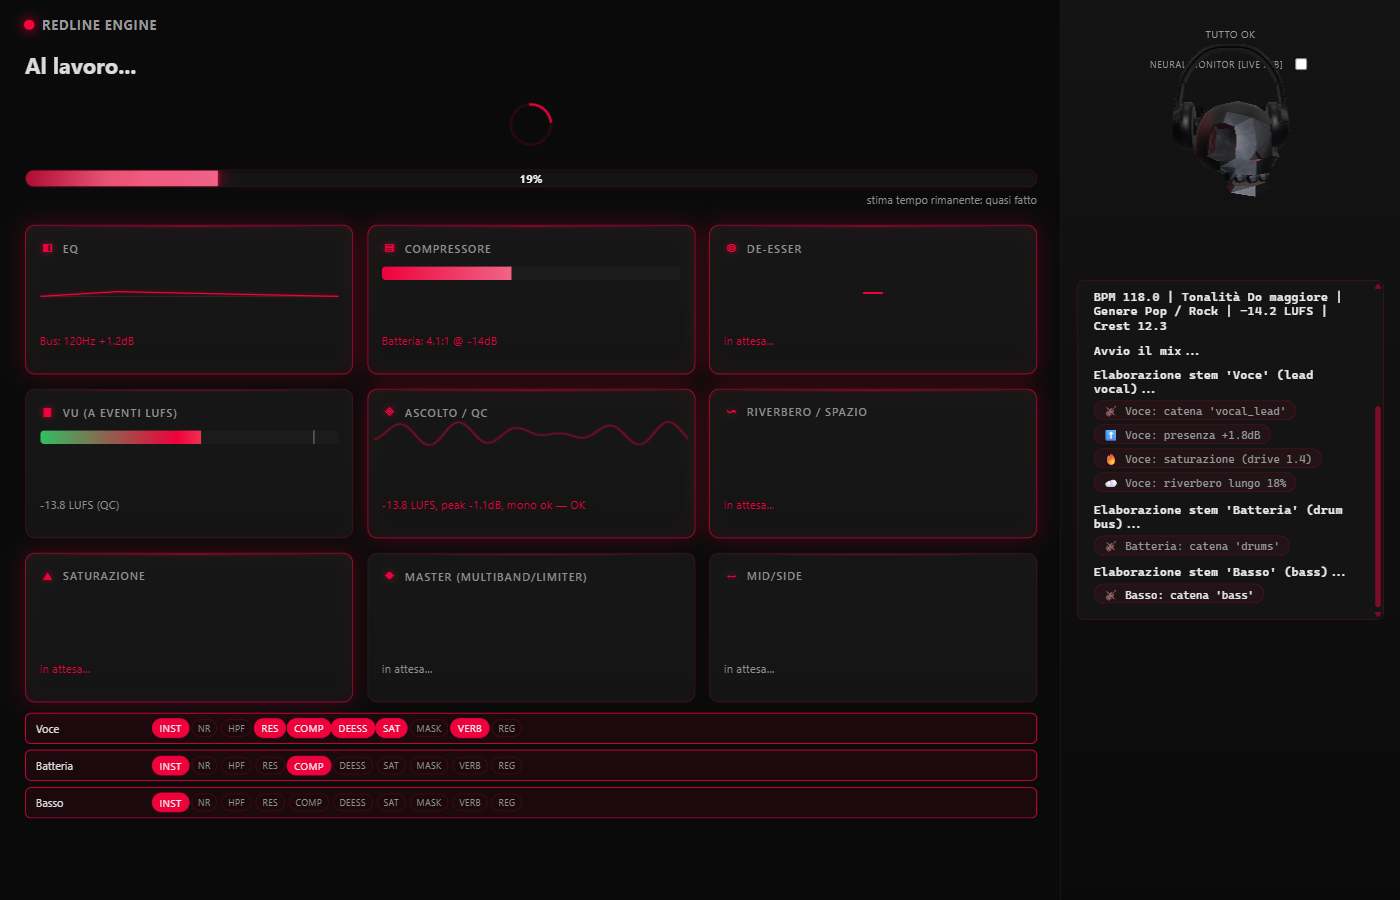
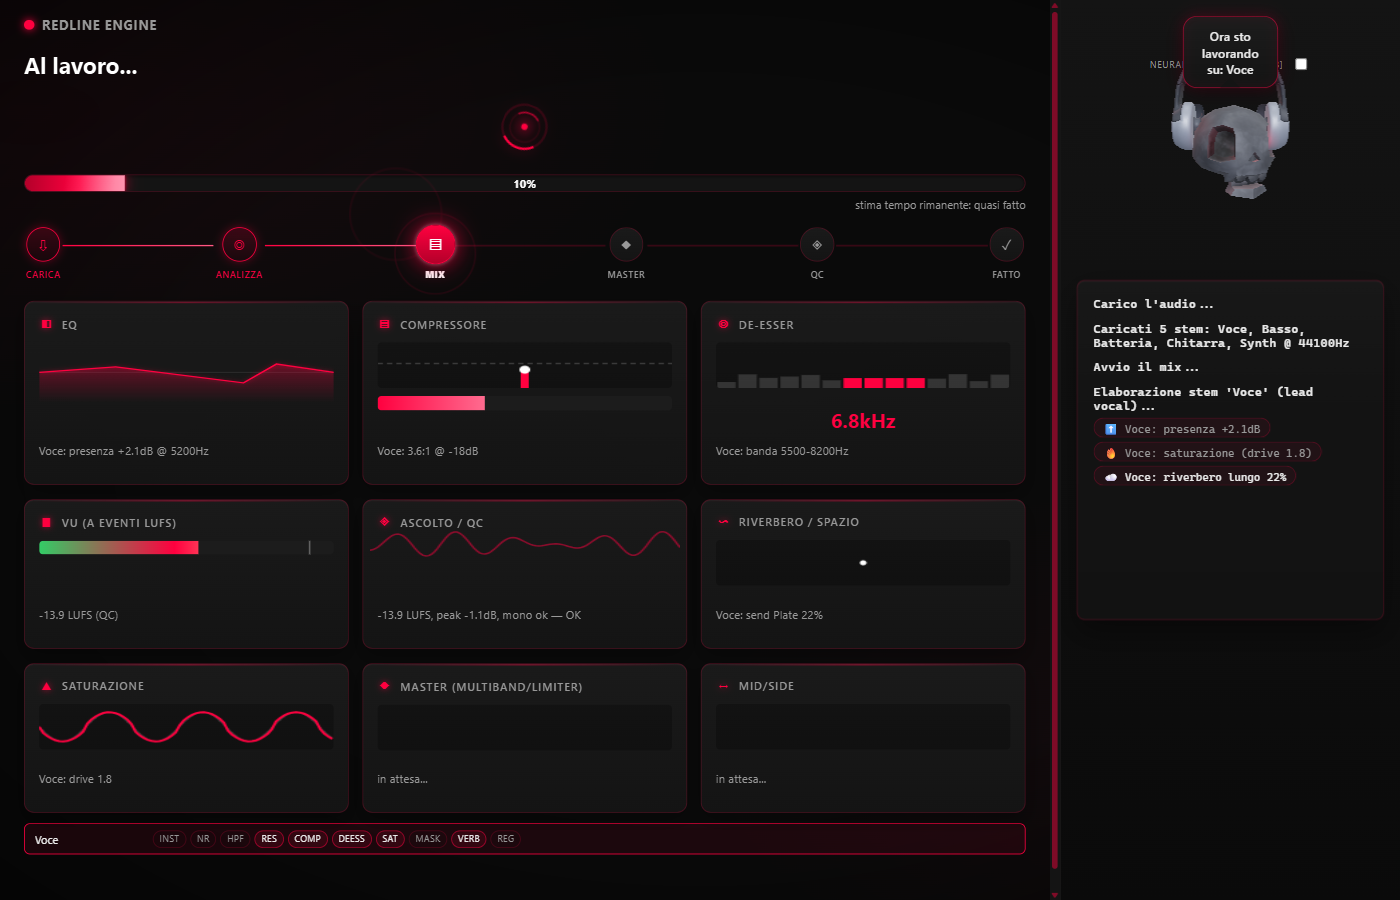
Atmosfera ambientale, EQ con massa, spinner a doppio anello, chip elastiche
- Sfondo vivo: due bagliori rossi ultra-tenui che derivano lentamente
  dietro a tutto (solo transform, GPU-cheap) + vignettatura fissa; le
  zone scure respirano invece di essere nero piatto.
- Curva EQ: riempimento a gradiente sotto la linea (massa da analyzer
  invece di un tratto solitario), stesso easing dello stroke.
- Spinner: doppio anello controrotante + nucleo pulsante, con glow.
- Brand dot: respiro luminoso + anello sonar periodico.
- Chip del log: atterrano con il pop elastico condiviso (--ease-pop)
  invece del fade delle righe testo.

Verificato via Playwright: zero errori console, gradiente EQ, spinner e
glow ambientale tutti confermati visivamente. Screenshot 02 del README
rinfrescato, sezioni Premium Polish Pass aggiornate (EN+IT).

diff --git a/RedLineEngine/app/web/style.css b/RedLineEngine/app/web/style.css
@@ -162,6 +162,41 @@ html, body {
   height: 100vh;
 }
 
+/* Ambient living background: two huge, ultra-dim red glows drifting very
+   slowly behind everything (transform-only animation, GPU-cheap), plus a
+   fixed vignette. The panels all have opaque backgrounds, so this only
+   breathes through in the dark empty areas -- atmosphere, not noise. */
+body::before {
+  content: "";
+  position: fixed;
+  inset: -30%;
+  z-index: 0;
+  pointer-events: none;
+  background:
+    radial-gradient(ellipse 42% 30% at 22% 28%, rgba(255, 0, 63, 0.055), transparent 70%),
+    radial-gradient(ellipse 38% 28% at 78% 72%, rgba(255, 0, 63, 0.045), transparent 70%);
+  animation: ambient-drift 26s ease-in-out infinite alternate;
+}
+
+@keyframes ambient-drift {
+  from { transform: translate3d(-2%, -1.5%, 0) scale(1); }
+  to { transform: translate3d(2%, 1.5%, 0) scale(1.06); }
+}
+
+body::after {
+  content: "";
+  position: fixed;
+  inset: 0;
+  z-index: 0;
+  pointer-events: none;
+  background: radial-gradient(ellipse at center, transparent 55%, rgba(0, 0, 0, 0.5) 100%);
+}
+
+#app-grid {
+  position: relative;
+  z-index: 1;
+}
+
 #main-stage {
   overflow-y: auto;
   padding: 0 24px 24px;
@@ -187,11 +222,34 @@ html, body {
 }
 
 .brand-mark {
+  position: relative;
   width: 10px;
   height: 10px;
   border-radius: 50%;
   background: var(--accent);
   box-shadow: 0 0 12px var(--accent);
+  animation: brand-breathe 3.2s ease-in-out infinite;
+}
+
+/* Sonar ring radiating off the brand dot -- a tiny "the engine is alive"
+   heartbeat in the corner, same red, never louder than the content. */
+.brand-mark::after {
+  content: "";
+  position: absolute;
+  inset: -2px;
+  border-radius: 50%;
+  border: 1px solid var(--accent);
+  animation: brand-sonar 3.2s ease-out infinite;
+}
+
+@keyframes brand-breathe {
+  0%, 100% { box-shadow: 0 0 8px var(--accent); }
+  50% { box-shadow: 0 0 16px var(--accent), 0 0 30px rgba(255, 0, 63, 0.4); }
+}
+
+@keyframes brand-sonar {
+  0% { transform: scale(1); opacity: 0.8; }
+  70%, 100% { transform: scale(2.6); opacity: 0; }
 }
 
 .brand-name {
@@ -631,13 +689,44 @@ select { width: auto; }
   margin: 24px 0;
 }
 
+/* Dual counter-rotating rings + a pulsing core dot -- reads as machinery
+   turning, not a stock loading circle. */
 .spinner-ring {
-  width: 42px;
-  height: 42px;
+  position: relative;
+  width: 46px;
+  height: 46px;
   border-radius: 50%;
   border: 3px solid rgba(255, 0, 63, 0.15);
   border-top-color: var(--accent);
   animation: spin 0.9s linear infinite;
+  filter: drop-shadow(0 0 6px rgba(255, 0, 63, 0.4));
+}
+
+.spinner-ring::before {
+  content: "";
+  position: absolute;
+  inset: 5px;
+  border-radius: 50%;
+  border: 2px solid rgba(255, 0, 63, 0.1);
+  border-bottom-color: rgba(255, 0, 63, 0.7);
+  animation: spin-reverse 1.4s linear infinite;
+}
+
+.spinner-ring::after {
+  content: "";
+  position: absolute;
+  top: 50%;
+  left: 50%;
+  width: 6px;
+  height: 6px;
+  margin: -3px 0 0 -3px;
+  border-radius: 50%;
+  background: var(--accent);
+  animation: brand-breathe 1.8s ease-in-out infinite;
+}
+
+@keyframes spin-reverse {
+  to { transform: rotate(-360deg); }
 }
 
 @keyframes spin {
@@ -1007,6 +1096,15 @@ select { width: auto; }
   filter: drop-shadow(0 0 3px rgba(255, 0, 63, 0.5));
 }
 
+/* Gradient area under the EQ curve -- gives the curve visual mass (an
+   analyzer-style "energy" read) instead of a lone thin line floating in
+   an empty box. Same transition as the stroke so they move as one shape. */
+.eq-fill {
+  fill: url(#eq-fill-grad);
+  stroke: none;
+  transition: d 0.4s cubic-bezier(0.22, 1, 0.36, 1);
+}
+
 .plugin-canvas {
   width: 100%;
   height: 46px;
@@ -1219,6 +1317,10 @@ select { width: auto; }
   border: 1px solid var(--border);
   color: var(--text-dim);
   background: rgba(255, 0, 63, 0.06);
+  /* Chips land with the shared elastic pop instead of the log-line fade --
+     they're discrete "a real DSP value just happened" markers, and the pop
+     makes each one register as an event, not just more scrolling text. */
+  animation: pop-in 0.4s var(--ease-pop) both;
 }
 
 /* Per-stem breakdown rows: one persistent row per track (see #stem-rows in

diff --git a/RedLineEngine/app/web/index.html b/RedLineEngine/app/web/index.html
@@ -203,7 +203,14 @@ window.addEventListener('error', function(e) {
         <div class="module">
           <div class="module-title"><span class="module-icon">◧</span>EQ</div>
           <svg id="eq-svg" viewBox="0 0 300 90" class="eq-svg" preserveAspectRatio="none">
+            <defs>
+              <linearGradient id="eq-fill-grad" x1="0" y1="0" x2="0" y2="1">
+                <stop offset="0%" stop-color="rgba(255, 0, 63, 0.35)" />
+                <stop offset="100%" stop-color="rgba(255, 0, 63, 0)" />
+              </linearGradient>
+            </defs>
             <line x1="0" y1="45" x2="300" y2="45" class="eq-zero-line" />
+            <path id="eq-fill" d="M0,45 L300,45 L300,90 L0,90 Z" class="eq-fill" />
             <path id="eq-path" d="M0,45 L300,45" class="eq-path" />
             <circle id="eq-new-point" class="eq-new-point hidden" r="4" cx="0" cy="45" />
             <line id="eq-hover-marker" x1="0" y1="0" x2="0" y2="90" class="eq-hover-marker hidden" />

diff --git a/RedLineEngine/app/web/app.js b/RedLineEngine/app/web/app.js
@@ -1436,9 +1436,11 @@ function gainToY(gainDb) {
 }
 
 function redrawEq() {
+  const fillEl = document.getElementById("eq-fill");
   const points = Object.values(eqBands).sort((a, b) => a.freq - b.freq);
   if (points.length === 0) {
     document.getElementById("eq-path").setAttribute("d", "M0,45 L300,45");
+    if (fillEl) fillEl.setAttribute("d", "M0,45 L300,45 L300,90 L0,90 Z");
     return;
   }
   let d = `M0,${gainToY(0)} `;
@@ -1447,6 +1449,9 @@ function redrawEq() {
   }
   d += `L300,${gainToY(0)}`;
   document.getElementById("eq-path").setAttribute("d", d);
+  // Same polyline closed down to the bottom edge -- the gradient "energy"
+  // area under the curve (see .eq-fill in style.css).
+  if (fillEl) fillEl.setAttribute("d", `${d} L300,90 L0,90 Z`);
 
   // Punctuates the redraw with a landing dot -- not tracking exactly which
   // band changed (would need touching every call site), so this simply

diff --git a/README.md b/README.md
@@ -292,6 +292,7 @@ Expect the biggest wall-clock improvement on sessions with many stems (backing v
 - **UI sound design**: short, quiet `Web Audio` blips for deliberate interactions — button clicks, panel open/close, screen transitions, rack-module hover. Deliberately *not* wired to high-frequency events (per-stem log lines fire dozens of times a second during a render) — that would be a buzz, not a cue.
 - **Progress milestone bubbles**: the speech bubble now also fires flavor lines at 25/50/75% progress ("Si comincia a sentire la forma del pezzo...", "Siamo a metà, e suona già bene..."), independent of the macro-phase bubbles, each firing once per render.
 - **Plugin explainer animations**: a small `<canvas>` per module now animates what that DSP stage actually *does* to the signal, driven by the real event payload — the Compressore's peak marker eases down toward the real threshold line by an amount scaled to the real ratio; the De-esser's mini spectrum shows the sibilance band spiking then getting ducked; Saturazione morphs a clean sine into a warmed/rounded wave scaled by the real drive; Riverbero draws expanding echo rings scaled by the real wet mix; Master/Limiter shows a peak bouncing off the real ceiling; Mid/Side spreads two side blobs outward from a fixed mono center. All six re-fire when a pinned stem's channel strip is shown, not just on the live event.
+- **Ambient atmosphere layer**: two huge ultra-dim red glows drift slowly behind everything (transform-only, GPU-cheap) plus a fixed vignette — the dark empty areas of the page breathe instead of being flat black, without ever competing with the content. The EQ curve gained a gradient "energy" fill under the line (analyzer-style mass instead of a lone floating stroke), the spinner became dual counter-rotating rings with a pulsing core, the brand dot emits a slow sonar ring, and every log chip lands with the shared elastic pop.
 
 #### Avatar System
 
@@ -1008,6 +1009,7 @@ Il miglioramento maggiore si nota su sessioni con molti stem (stack di cori, bat
 - **Sound design dell'interfaccia**: brevi e discreti bip Web Audio per interazioni deliberate — click sui bottoni, apertura/chiusura pannelli, transizioni di schermata, hover sui moduli rack. Deliberatamente *non* collegati a eventi ad alta frequenza (le righe di log per-stem sparano dozzine di volte al secondo durante un render) — sarebbe un ronzio, non un segnale.
 - **Nuvolette ai traguardi di avanzamento**: la nuvoletta di dialogo ora spara anche frasi di atmosfera al 25/50/75% di avanzamento ("Si comincia a sentire la forma del pezzo...", "Siamo a metà, e suona già bene..."), indipendenti dalle nuvolette di macro-fase, ciascuna una sola volta per render.
 - **Animazioni esplicative dei plugin**: un piccolo `<canvas>` per modulo ora anima cosa fa davvero quello stadio DSP al segnale, pilotato dal payload reale dell'evento — il marker di picco del Compressore scende verso la vera linea di soglia di una quantità scalata sul vero ratio; il mini-spettro del De-esser mostra la banda sibilante che sale e poi viene "ammorbidita"; la Saturazione trasforma un seno pulito in un'onda scaldata/arrotondata scalata sul vero drive; il Riverbero disegna anelli d'eco che si espandono scalati sul vero mix wet; Master/Limiter mostra un picco che rimbalza sul vero soffitto; Mid/Side allarga due bolle laterali da un centro mono fisso. Tutte e sei si riattivano anche quando si mostra il channel strip di una traccia agganciata, non solo sull'evento live.
+- **Livello di atmosfera ambientale**: due enormi bagliori rossi ultra-tenui derivano lentamente dietro a tutto (solo transform, leggero per la GPU) più una vignettatura fissa — le zone scure vuote della pagina respirano invece di essere nero piatto, senza mai competere col contenuto. La curva EQ ha guadagnato un riempimento a gradiente "energia" sotto la linea (massa da analyzer invece di un tratto solitario fluttuante), lo spinner è diventato un doppio anello controrotante con nucleo pulsante, il punto del brand emette un lento anello sonar, e ogni chip del log atterra con il pop elastico condiviso.
 
 #### Sistema Avatar
 
